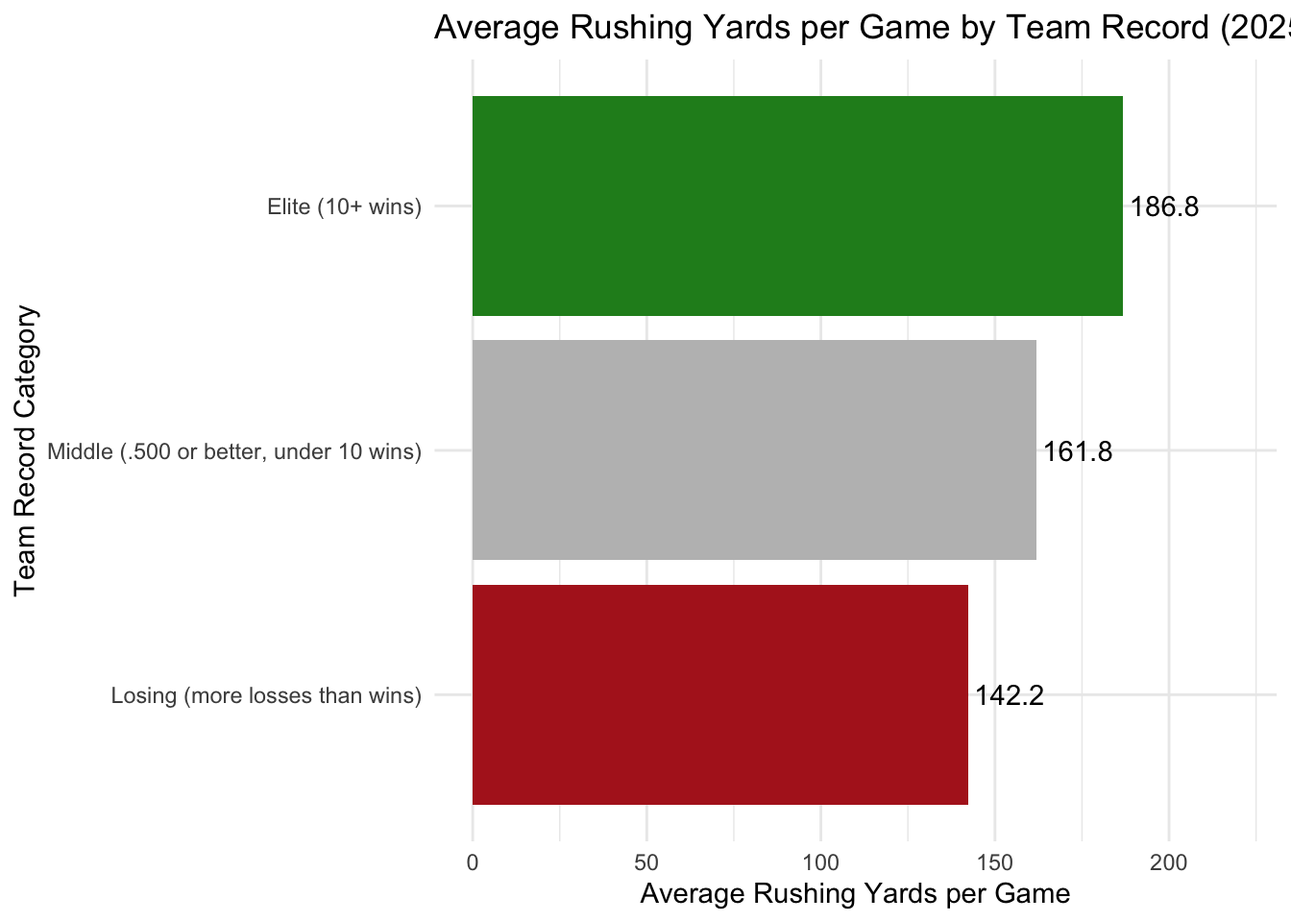
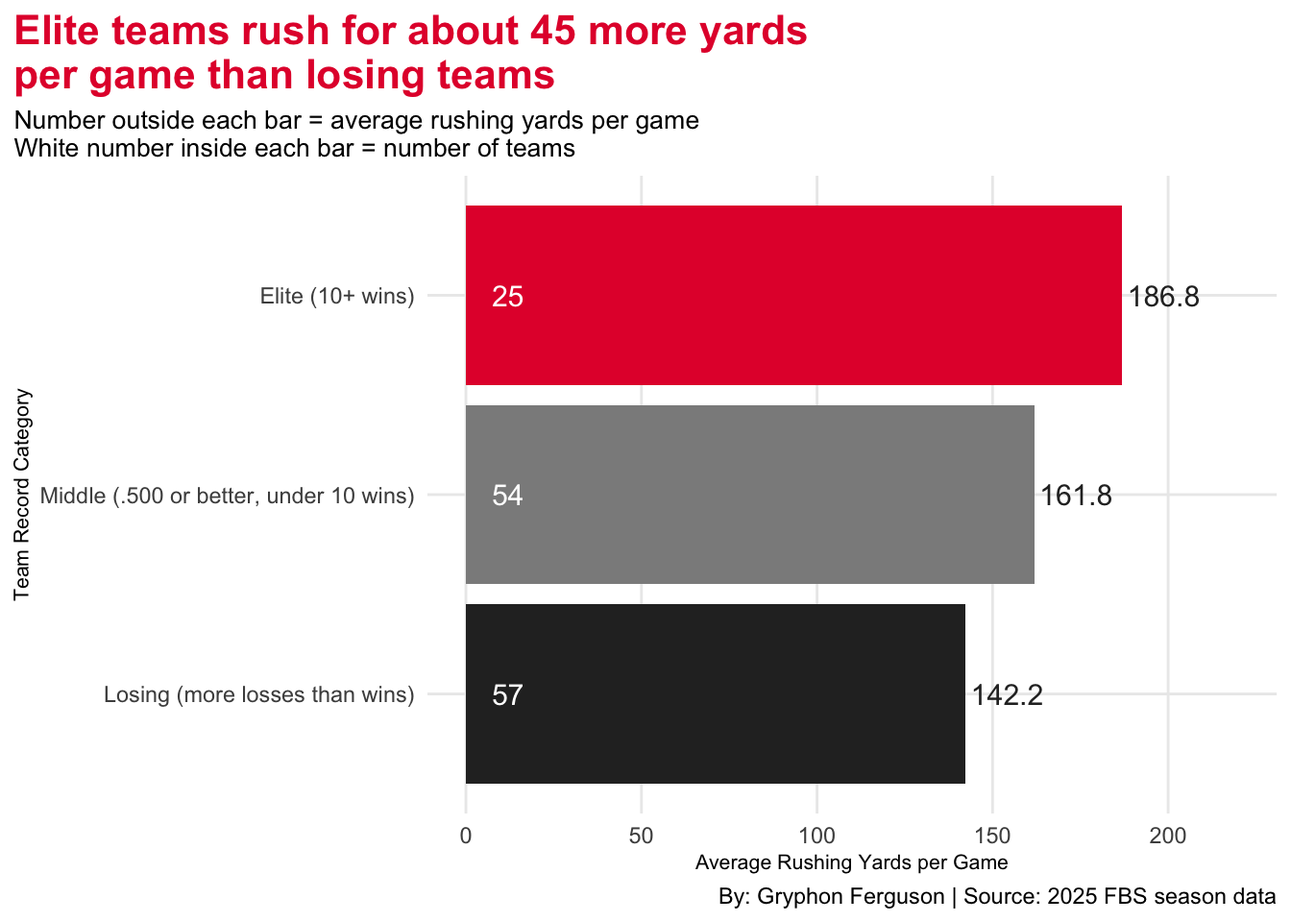
yeo

diff --git a/posts/fbs-rushing-yards-elite/fbs-rushing-yards-elite.html b/posts/fbs-rushing-yards-elite/fbs-rushing-yards-elite.html
@@ -354,17 +354,72 @@ pre > code.sourceCode > span > a:first-child::before { text-decoration: underlin
 <details class="code-fold">
 <summary>Code</summary>
 <div class="code-copy-outer-scaffold"><div class="sourceCode cell-code" id="cb1"><pre class="sourceCode r code-with-copy"><code class="sourceCode r"><span id="cb1-1"><a href="#cb1-1" aria-hidden="true" tabindex="-1"></a><span class="fu">ggplot</span>() <span class="sc">+</span></span>
-<span id="cb1-2"><a href="#cb1-2" aria-hidden="true" tabindex="-1"></a>  <span class="fu">geom_point</span>(<span class="at">data =</span> fbs, <span class="fu">aes</span>(<span class="at">x =</span> rush_ypg, <span class="at">y =</span> wins), <span class="at">color =</span> <span class="st">"steelblue"</span>, <span class="at">alpha =</span> .<span class="dv">6</span>) <span class="sc">+</span></span>
-<span id="cb1-3"><a href="#cb1-3" aria-hidden="true" tabindex="-1"></a>  <span class="fu">geom_smooth</span>(<span class="at">data =</span> fbs, <span class="fu">aes</span>(<span class="at">x =</span> rush_ypg, <span class="at">y =</span> wins), <span class="at">method =</span> <span class="st">"lm"</span>, <span class="at">color =</span> <span class="st">"firebrick"</span>) <span class="sc">+</span></span>
-<span id="cb1-4"><a href="#cb1-4" aria-hidden="true" tabindex="-1"></a>  <span class="fu">geom_point</span>(<span class="at">data =</span> standouts, <span class="fu">aes</span>(<span class="at">x =</span> rush_ypg, <span class="at">y =</span> wins), <span class="at">color =</span> <span class="st">"navy"</span>, <span class="at">size =</span> <span class="dv">3</span>) <span class="sc">+</span></span>
+<span id="cb1-2"><a href="#cb1-2" aria-hidden="true" tabindex="-1"></a>  <span class="fu">geom_point</span>(<span class="at">data =</span> fbs, <span class="fu">aes</span>(<span class="at">x =</span> rush_ypg, <span class="at">y =</span> wins), <span class="at">color =</span> <span class="st">"#B8AE9C"</span>) <span class="sc">+</span></span>
+<span id="cb1-3"><a href="#cb1-3" aria-hidden="true" tabindex="-1"></a>  <span class="fu">geom_smooth</span>(<span class="at">data =</span> fbs, <span class="fu">aes</span>(<span class="at">x =</span> rush_ypg, <span class="at">y =</span> wins), <span class="at">method =</span> <span class="st">"lm"</span>, <span class="at">color =</span> <span class="st">"#2B2B2B"</span>) <span class="sc">+</span></span>
+<span id="cb1-4"><a href="#cb1-4" aria-hidden="true" tabindex="-1"></a>  <span class="fu">geom_point</span>(<span class="at">data =</span> standouts, <span class="fu">aes</span>(<span class="at">x =</span> rush_ypg, <span class="at">y =</span> wins), <span class="at">color =</span> <span class="st">"#E41C38"</span>, <span class="at">size =</span> <span class="fl">2.5</span>) <span class="sc">+</span></span>
 <span id="cb1-5"><a href="#cb1-5" aria-hidden="true" tabindex="-1"></a>  <span class="fu">geom_text_repel</span>(<span class="at">data =</span> standouts, <span class="fu">aes</span>(<span class="at">x =</span> rush_ypg, <span class="at">y =</span> wins, <span class="at">label =</span> team)) <span class="sc">+</span></span>
-<span id="cb1-6"><a href="#cb1-6" aria-hidden="true" tabindex="-1"></a>  <span class="fu">geom_text</span>(<span class="fu">aes</span>(<span class="at">x =</span> <span class="dv">240</span>, <span class="at">y =</span> <span class="dv">1</span>, <span class="at">label =</span> <span class="st">"Correlation (r) = 0.45"</span>)) <span class="sc">+</span></span>
-<span id="cb1-7"><a href="#cb1-7" aria-hidden="true" tabindex="-1"></a>  <span class="fu">labs</span>(</span>
-<span id="cb1-8"><a href="#cb1-8" aria-hidden="true" tabindex="-1"></a>    <span class="at">title =</span> <span class="st">"Rushing Yards per Game vs. Wins (2025 FBS Season)"</span>,</span>
-<span id="cb1-9"><a href="#cb1-9" aria-hidden="true" tabindex="-1"></a>    <span class="at">x =</span> <span class="st">"Rushing Yards per Game"</span>,</span>
-<span id="cb1-10"><a href="#cb1-10" aria-hidden="true" tabindex="-1"></a>    <span class="at">y =</span> <span class="st">"Wins"</span></span>
-<span id="cb1-11"><a href="#cb1-11" aria-hidden="true" tabindex="-1"></a>  ) <span class="sc">+</span></span>
-<span id="cb1-12"><a href="#cb1-12" aria-hidden="true" tabindex="-1"></a>  <span class="fu">theme_minimal</span>()</span></code></pre></div><button title="Copy to Clipboard" class="code-copy-button"><i class="bi"></i></button></div>
+<span id="cb1-6"><a href="#cb1-6" aria-hidden="true" tabindex="-1"></a>  <span class="fu">geom_hline</span>(<span class="at">yintercept =</span> <span class="fu">mean</span>(fbs<span class="sc">$</span>wins), <span class="at">color =</span> <span class="st">"#8C8C8C"</span>) <span class="sc">+</span></span>
+<span id="cb1-7"><a href="#cb1-7" aria-hidden="true" tabindex="-1"></a>  <span class="fu">geom_vline</span>(<span class="at">xintercept =</span> <span class="fu">mean</span>(fbs<span class="sc">$</span>rush_ypg), <span class="at">color =</span> <span class="st">"#8C8C8C"</span>) <span class="sc">+</span></span>
+<span id="cb1-8"><a href="#cb1-8" aria-hidden="true" tabindex="-1"></a>  <span class="fu">scale_x_continuous</span>(<span class="at">limits =</span> <span class="fu">c</span>(<span class="dv">70</span>, <span class="dv">310</span>)) <span class="sc">+</span></span>
+<span id="cb1-9"><a href="#cb1-9" aria-hidden="true" tabindex="-1"></a>  <span class="fu">scale_y_continuous</span>(<span class="at">limits =</span> <span class="fu">c</span>(<span class="sc">-</span><span class="dv">2</span>, <span class="dv">19</span>)) <span class="sc">+</span></span>
+<span id="cb1-10"><a href="#cb1-10" aria-hidden="true" tabindex="-1"></a>  <span class="fu">geom_text</span>(</span>
+<span id="cb1-11"><a href="#cb1-11" aria-hidden="true" tabindex="-1"></a>    <span class="fu">aes</span>(<span class="at">x =</span> <span class="dv">303</span>, <span class="at">y =</span> <span class="fl">7.8</span>),</span>
+<span id="cb1-12"><a href="#cb1-12" aria-hidden="true" tabindex="-1"></a>    <span class="at">label =</span> <span class="st">"Avg. wins"</span>,</span>
+<span id="cb1-13"><a href="#cb1-13" aria-hidden="true" tabindex="-1"></a>    <span class="at">size =</span> <span class="fl">2.5</span>,</span>
+<span id="cb1-14"><a href="#cb1-14" aria-hidden="true" tabindex="-1"></a>    <span class="at">color =</span> <span class="st">"#8C8C8C"</span></span>
+<span id="cb1-15"><a href="#cb1-15" aria-hidden="true" tabindex="-1"></a>  ) <span class="sc">+</span></span>
+<span id="cb1-16"><a href="#cb1-16" aria-hidden="true" tabindex="-1"></a>  <span class="fu">geom_text</span>(</span>
+<span id="cb1-17"><a href="#cb1-17" aria-hidden="true" tabindex="-1"></a>    <span class="fu">aes</span>(<span class="at">x =</span> <span class="dv">180</span>, <span class="at">y =</span> <span class="dv">18</span>),</span>
+<span id="cb1-18"><a href="#cb1-18" aria-hidden="true" tabindex="-1"></a>    <span class="at">label =</span> <span class="st">"Avg. rushing yards"</span>,</span>
+<span id="cb1-19"><a href="#cb1-19" aria-hidden="true" tabindex="-1"></a>    <span class="at">size =</span> <span class="fl">2.5</span>,</span>
+<span id="cb1-20"><a href="#cb1-20" aria-hidden="true" tabindex="-1"></a>    <span class="at">color =</span> <span class="st">"#8C8C8C"</span></span>
+<span id="cb1-21"><a href="#cb1-21" aria-hidden="true" tabindex="-1"></a>  ) <span class="sc">+</span></span>
+<span id="cb1-22"><a href="#cb1-22" aria-hidden="true" tabindex="-1"></a>  <span class="fu">geom_text</span>(</span>
+<span id="cb1-23"><a href="#cb1-23" aria-hidden="true" tabindex="-1"></a>    <span class="fu">aes</span>(<span class="at">x =</span> <span class="dv">105</span>, <span class="at">y =</span> <span class="dv">18</span>),</span>
+<span id="cb1-24"><a href="#cb1-24" aria-hidden="true" tabindex="-1"></a>    <span class="at">label =</span> <span class="st">"Winning without the run"</span>,</span>
+<span id="cb1-25"><a href="#cb1-25" aria-hidden="true" tabindex="-1"></a>    <span class="at">size =</span> <span class="dv">3</span>,</span>
+<span id="cb1-26"><a href="#cb1-26" aria-hidden="true" tabindex="-1"></a>    <span class="at">color =</span> <span class="st">"#2B2B2B"</span></span>
+<span id="cb1-27"><a href="#cb1-27" aria-hidden="true" tabindex="-1"></a>  ) <span class="sc">+</span></span>
+<span id="cb1-28"><a href="#cb1-28" aria-hidden="true" tabindex="-1"></a>  <span class="fu">geom_text</span>(</span>
+<span id="cb1-29"><a href="#cb1-29" aria-hidden="true" tabindex="-1"></a>    <span class="fu">aes</span>(<span class="at">x =</span> <span class="dv">245</span>, <span class="at">y =</span> <span class="dv">18</span>),</span>
+<span id="cb1-30"><a href="#cb1-30" aria-hidden="true" tabindex="-1"></a>    <span class="at">label =</span> <span class="st">"Running and winning"</span>,</span>
+<span id="cb1-31"><a href="#cb1-31" aria-hidden="true" tabindex="-1"></a>    <span class="at">size =</span> <span class="dv">3</span>,</span>
+<span id="cb1-32"><a href="#cb1-32" aria-hidden="true" tabindex="-1"></a>    <span class="at">color =</span> <span class="st">"#E41C38"</span>,</span>
+<span id="cb1-33"><a href="#cb1-33" aria-hidden="true" tabindex="-1"></a>    <span class="at">fontface =</span> <span class="st">"bold"</span></span>
+<span id="cb1-34"><a href="#cb1-34" aria-hidden="true" tabindex="-1"></a>  ) <span class="sc">+</span></span>
+<span id="cb1-35"><a href="#cb1-35" aria-hidden="true" tabindex="-1"></a>  <span class="fu">geom_text</span>(</span>
+<span id="cb1-36"><a href="#cb1-36" aria-hidden="true" tabindex="-1"></a>    <span class="fu">aes</span>(<span class="at">x =</span> <span class="dv">105</span>, <span class="at">y =</span> <span class="sc">-</span><span class="fl">1.5</span>),</span>
+<span id="cb1-37"><a href="#cb1-37" aria-hidden="true" tabindex="-1"></a>    <span class="at">label =</span> <span class="st">"Neither running nor winning"</span>,</span>
+<span id="cb1-38"><a href="#cb1-38" aria-hidden="true" tabindex="-1"></a>    <span class="at">size =</span> <span class="dv">3</span>,</span>
+<span id="cb1-39"><a href="#cb1-39" aria-hidden="true" tabindex="-1"></a>    <span class="at">color =</span> <span class="st">"#2B2B2B"</span></span>
+<span id="cb1-40"><a href="#cb1-40" aria-hidden="true" tabindex="-1"></a>  ) <span class="sc">+</span></span>
+<span id="cb1-41"><a href="#cb1-41" aria-hidden="true" tabindex="-1"></a>  <span class="fu">geom_text</span>(</span>
+<span id="cb1-42"><a href="#cb1-42" aria-hidden="true" tabindex="-1"></a>    <span class="fu">aes</span>(<span class="at">x =</span> <span class="dv">245</span>, <span class="at">y =</span> <span class="sc">-</span><span class="fl">1.5</span>),</span>
+<span id="cb1-43"><a href="#cb1-43" aria-hidden="true" tabindex="-1"></a>    <span class="at">label =</span> <span class="st">"Running but still losing"</span>,</span>
+<span id="cb1-44"><a href="#cb1-44" aria-hidden="true" tabindex="-1"></a>    <span class="at">size =</span> <span class="dv">3</span>,</span>
+<span id="cb1-45"><a href="#cb1-45" aria-hidden="true" tabindex="-1"></a>    <span class="at">color =</span> <span class="st">"#2B2B2B"</span></span>
+<span id="cb1-46"><a href="#cb1-46" aria-hidden="true" tabindex="-1"></a>  ) <span class="sc">+</span></span>
+<span id="cb1-47"><a href="#cb1-47" aria-hidden="true" tabindex="-1"></a>  <span class="fu">geom_text</span>(</span>
+<span id="cb1-48"><a href="#cb1-48" aria-hidden="true" tabindex="-1"></a>    <span class="fu">aes</span>(<span class="at">x =</span> <span class="dv">175</span>, <span class="at">y =</span> <span class="sc">-</span><span class="fl">1.5</span>),</span>
+<span id="cb1-49"><a href="#cb1-49" aria-hidden="true" tabindex="-1"></a>    <span class="at">label =</span> <span class="st">"r = 0.45"</span>,</span>
+<span id="cb1-50"><a href="#cb1-50" aria-hidden="true" tabindex="-1"></a>    <span class="at">size =</span> <span class="fl">2.5</span>,</span>
+<span id="cb1-51"><a href="#cb1-51" aria-hidden="true" tabindex="-1"></a>    <span class="at">color =</span> <span class="st">"#8C8C8C"</span></span>
+<span id="cb1-52"><a href="#cb1-52" aria-hidden="true" tabindex="-1"></a>  ) <span class="sc">+</span></span>
+<span id="cb1-53"><a href="#cb1-53" aria-hidden="true" tabindex="-1"></a>  <span class="fu">labs</span>(</span>
+<span id="cb1-54"><a href="#cb1-54" aria-hidden="true" tabindex="-1"></a>    <span class="at">title =</span> <span class="st">"Teams that run the ball more tend to win more"</span>,</span>
+<span id="cb1-55"><a href="#cb1-55" aria-hidden="true" tabindex="-1"></a>    <span class="at">subtitle =</span> <span class="st">"Rushing yards and wins are connected, but Air Force shows it is no guarantee"</span>,</span>
+<span id="cb1-56"><a href="#cb1-56" aria-hidden="true" tabindex="-1"></a>    <span class="at">x =</span> <span class="st">"Rushing Yards per Game"</span>, <span class="at">y =</span> <span class="st">"Wins"</span>,</span>
+<span id="cb1-57"><a href="#cb1-57" aria-hidden="true" tabindex="-1"></a>    <span class="at">caption =</span> <span class="st">"By: Gryphon Ferguson | Source: 2025 FBS season data"</span></span>
+<span id="cb1-58"><a href="#cb1-58" aria-hidden="true" tabindex="-1"></a>  ) <span class="sc">+</span></span>
+<span id="cb1-59"><a href="#cb1-59" aria-hidden="true" tabindex="-1"></a>  <span class="fu">theme_minimal</span>() <span class="sc">+</span></span>
+<span id="cb1-60"><a href="#cb1-60" aria-hidden="true" tabindex="-1"></a>  <span class="fu">theme</span>(</span>
+<span id="cb1-61"><a href="#cb1-61" aria-hidden="true" tabindex="-1"></a>    <span class="at">plot.title =</span> <span class="fu">element_text</span>(<span class="at">size =</span> <span class="dv">16</span>, <span class="at">face =</span> <span class="st">"bold"</span>, <span class="at">color =</span> <span class="st">"#E41C38"</span>),</span>
+<span id="cb1-62"><a href="#cb1-62" aria-hidden="true" tabindex="-1"></a>    <span class="at">plot.subtitle =</span> <span class="fu">element_text</span>(<span class="at">size =</span> <span class="dv">10</span>),</span>
+<span id="cb1-63"><a href="#cb1-63" aria-hidden="true" tabindex="-1"></a>    <span class="at">axis.title =</span> <span class="fu">element_text</span>(<span class="at">size =</span> <span class="dv">8</span>),</span>
+<span id="cb1-64"><a href="#cb1-64" aria-hidden="true" tabindex="-1"></a>    <span class="at">plot.background =</span> <span class="fu">element_rect</span>(<span class="at">fill =</span> <span class="st">"#FDF2D0"</span>, <span class="at">color =</span> <span class="cn">NA</span>),</span>
+<span id="cb1-65"><a href="#cb1-65" aria-hidden="true" tabindex="-1"></a>    <span class="at">panel.grid.major =</span> <span class="fu">element_line</span>(<span class="at">color =</span> <span class="st">"#EADFC0"</span>),</span>
+<span id="cb1-66"><a href="#cb1-66" aria-hidden="true" tabindex="-1"></a>    <span class="at">panel.grid.minor =</span> <span class="fu">element_blank</span>()</span>
+<span id="cb1-67"><a href="#cb1-67" aria-hidden="true" tabindex="-1"></a>  )</span></code></pre></div><button title="Copy to Clipboard" class="code-copy-button"><i class="bi"></i></button></div>
 </details>
 <div class="cell-output-display">
 <div>
@@ -383,19 +438,33 @@ pre > code.sourceCode > span > a:first-child::before { text-decoration: underlin
 <span id="cb2-4"><a href="#cb2-4" aria-hidden="true" tabindex="-1"></a>               <span class="at">weight =</span> avg_rush_ypg, <span class="at">fill =</span> record_group)) <span class="sc">+</span></span>
 <span id="cb2-5"><a href="#cb2-5" aria-hidden="true" tabindex="-1"></a>  <span class="fu">geom_text</span>(<span class="at">data =</span> record_avg,</span>
 <span id="cb2-6"><a href="#cb2-6" aria-hidden="true" tabindex="-1"></a>            <span class="fu">aes</span>(<span class="at">x =</span> <span class="fu">reorder</span>(record_group, avg_rush_ypg),</span>
-<span id="cb2-7"><a href="#cb2-7" aria-hidden="true" tabindex="-1"></a>                <span class="at">y =</span> avg_rush_ypg <span class="sc">+</span> <span class="dv">12</span>, <span class="at">label =</span> <span class="fu">round</span>(avg_rush_ypg, <span class="dv">1</span>))) <span class="sc">+</span></span>
-<span id="cb2-8"><a href="#cb2-8" aria-hidden="true" tabindex="-1"></a>  <span class="fu">coord_flip</span>() <span class="sc">+</span></span>
-<span id="cb2-9"><a href="#cb2-9" aria-hidden="true" tabindex="-1"></a>  <span class="fu">scale_y_continuous</span>(<span class="at">limits =</span> <span class="fu">c</span>(<span class="dv">0</span>, <span class="dv">220</span>)) <span class="sc">+</span></span>
-<span id="cb2-10"><a href="#cb2-10" aria-hidden="true" tabindex="-1"></a>  <span class="fu">scale_fill_manual</span>(<span class="at">values =</span> <span class="fu">c</span>(<span class="st">"Elite (10+ wins)"</span> <span class="ot">=</span> <span class="st">"forestgreen"</span>,</span>
-<span id="cb2-11"><a href="#cb2-11" aria-hidden="true" tabindex="-1"></a>                               <span class="st">"Middle (.500 or better, under 10 wins)"</span> <span class="ot">=</span> <span class="st">"gray"</span>,</span>
-<span id="cb2-12"><a href="#cb2-12" aria-hidden="true" tabindex="-1"></a>                               <span class="st">"Losing (more losses than wins)"</span> <span class="ot">=</span> <span class="st">"firebrick"</span>)) <span class="sc">+</span></span>
-<span id="cb2-13"><a href="#cb2-13" aria-hidden="true" tabindex="-1"></a>  <span class="fu">labs</span>(</span>
-<span id="cb2-14"><a href="#cb2-14" aria-hidden="true" tabindex="-1"></a>    <span class="at">title =</span> <span class="st">"Average Rushing Yards per Game by Team Record (2025 FBS)"</span>,</span>
-<span id="cb2-15"><a href="#cb2-15" aria-hidden="true" tabindex="-1"></a>    <span class="at">x =</span> <span class="st">"Team Record Category"</span>,</span>
-<span id="cb2-16"><a href="#cb2-16" aria-hidden="true" tabindex="-1"></a>    <span class="at">y =</span> <span class="st">"Average Rushing Yards per Game"</span></span>
-<span id="cb2-17"><a href="#cb2-17" aria-hidden="true" tabindex="-1"></a>  ) <span class="sc">+</span></span>
-<span id="cb2-18"><a href="#cb2-18" aria-hidden="true" tabindex="-1"></a>  <span class="fu">theme_minimal</span>() <span class="sc">+</span></span>
-<span id="cb2-19"><a href="#cb2-19" aria-hidden="true" tabindex="-1"></a>  <span class="fu">theme</span>(<span class="at">legend.position =</span> <span class="st">"none"</span>)</span></code></pre></div><button title="Copy to Clipboard" class="code-copy-button"><i class="bi"></i></button></div>
+<span id="cb2-7"><a href="#cb2-7" aria-hidden="true" tabindex="-1"></a>                <span class="at">y =</span> avg_rush_ypg <span class="sc">+</span> <span class="dv">12</span>, <span class="at">label =</span> <span class="fu">round</span>(avg_rush_ypg, <span class="dv">1</span>)),</span>
+<span id="cb2-8"><a href="#cb2-8" aria-hidden="true" tabindex="-1"></a>            <span class="at">size =</span> <span class="dv">4</span>, <span class="at">color =</span> <span class="st">"#2B2B2B"</span>) <span class="sc">+</span></span>
+<span id="cb2-9"><a href="#cb2-9" aria-hidden="true" tabindex="-1"></a>  <span class="fu">geom_text</span>(<span class="at">data =</span> record_avg,</span>
+<span id="cb2-10"><a href="#cb2-10" aria-hidden="true" tabindex="-1"></a>            <span class="fu">aes</span>(<span class="at">x =</span> <span class="fu">reorder</span>(record_group, avg_rush_ypg),</span>
+<span id="cb2-11"><a href="#cb2-11" aria-hidden="true" tabindex="-1"></a>                <span class="at">y =</span> <span class="dv">12</span>, <span class="at">label =</span> teams),</span>
+<span id="cb2-12"><a href="#cb2-12" aria-hidden="true" tabindex="-1"></a>            <span class="at">color =</span> <span class="st">"white"</span>, <span class="at">size =</span> <span class="dv">4</span>) <span class="sc">+</span></span>
+<span id="cb2-13"><a href="#cb2-13" aria-hidden="true" tabindex="-1"></a>  <span class="fu">coord_flip</span>() <span class="sc">+</span></span>
+<span id="cb2-14"><a href="#cb2-14" aria-hidden="true" tabindex="-1"></a>  <span class="fu">scale_y_continuous</span>(<span class="at">limits =</span> <span class="fu">c</span>(<span class="dv">0</span>, <span class="dv">220</span>)) <span class="sc">+</span></span>
+<span id="cb2-15"><a href="#cb2-15" aria-hidden="true" tabindex="-1"></a>  <span class="fu">scale_fill_manual</span>(<span class="at">values =</span> <span class="fu">c</span>(<span class="st">"Elite (10+ wins)"</span> <span class="ot">=</span> <span class="st">"#E41C38"</span>,</span>
+<span id="cb2-16"><a href="#cb2-16" aria-hidden="true" tabindex="-1"></a>                               <span class="st">"Middle (.500 or better, under 10 wins)"</span> <span class="ot">=</span> <span class="st">"#8C8C8C"</span>,</span>
+<span id="cb2-17"><a href="#cb2-17" aria-hidden="true" tabindex="-1"></a>                               <span class="st">"Losing (more losses than wins)"</span> <span class="ot">=</span> <span class="st">"#2B2B2B"</span>)) <span class="sc">+</span></span>
+<span id="cb2-18"><a href="#cb2-18" aria-hidden="true" tabindex="-1"></a>  <span class="fu">labs</span>(</span>
+<span id="cb2-19"><a href="#cb2-19" aria-hidden="true" tabindex="-1"></a>    <span class="at">title =</span> <span class="st">"Elite teams rush for about 45 more yards</span><span class="sc">\n</span><span class="st">per game than losing teams"</span>,</span>
+<span id="cb2-20"><a href="#cb2-20" aria-hidden="true" tabindex="-1"></a>    <span class="at">subtitle =</span> <span class="st">"Number outside each bar = average rushing yards per game</span><span class="sc">\n</span><span class="st">White number inside each bar = number of teams"</span>,</span>
+<span id="cb2-21"><a href="#cb2-21" aria-hidden="true" tabindex="-1"></a>    <span class="at">x =</span> <span class="st">"Team Record Category"</span>,</span>
+<span id="cb2-22"><a href="#cb2-22" aria-hidden="true" tabindex="-1"></a>    <span class="at">y =</span> <span class="st">"Average Rushing Yards per Game"</span>,</span>
+<span id="cb2-23"><a href="#cb2-23" aria-hidden="true" tabindex="-1"></a>    <span class="at">caption =</span> <span class="st">"By: Gryphon Ferguson | Source: 2025 FBS season data"</span></span>
+<span id="cb2-24"><a href="#cb2-24" aria-hidden="true" tabindex="-1"></a>  ) <span class="sc">+</span></span>
+<span id="cb2-25"><a href="#cb2-25" aria-hidden="true" tabindex="-1"></a>  <span class="fu">theme_minimal</span>() <span class="sc">+</span></span>
+<span id="cb2-26"><a href="#cb2-26" aria-hidden="true" tabindex="-1"></a>  <span class="fu">theme</span>(</span>
+<span id="cb2-27"><a href="#cb2-27" aria-hidden="true" tabindex="-1"></a>    <span class="at">legend.position =</span> <span class="st">"none"</span>,</span>
+<span id="cb2-28"><a href="#cb2-28" aria-hidden="true" tabindex="-1"></a>    <span class="at">plot.title.position =</span> <span class="st">"plot"</span>,</span>
+<span id="cb2-29"><a href="#cb2-29" aria-hidden="true" tabindex="-1"></a>    <span class="at">plot.title =</span> <span class="fu">element_text</span>(<span class="at">size =</span> <span class="dv">16</span>, <span class="at">face =</span> <span class="st">"bold"</span>, <span class="at">color =</span> <span class="st">"#E41C38"</span>),</span>
+<span id="cb2-30"><a href="#cb2-30" aria-hidden="true" tabindex="-1"></a>    <span class="at">plot.subtitle =</span> <span class="fu">element_text</span>(<span class="at">size =</span> <span class="dv">10</span>),</span>
+<span id="cb2-31"><a href="#cb2-31" aria-hidden="true" tabindex="-1"></a>    <span class="at">axis.title =</span> <span class="fu">element_text</span>(<span class="at">size =</span> <span class="dv">8</span>),</span>
+<span id="cb2-32"><a href="#cb2-32" aria-hidden="true" tabindex="-1"></a>    <span class="at">panel.grid.minor =</span> <span class="fu">element_blank</span>()</span>
+<span id="cb2-33"><a href="#cb2-33" aria-hidden="true" tabindex="-1"></a>  )</span></code></pre></div><button title="Copy to Clipboard" class="code-copy-button"><i class="bi"></i></button></div>
 </details>
 <div class="cell-output-display">
 <div>
@@ -410,21 +479,29 @@ pre > code.sourceCode > span > a:first-child::before { text-decoration: underlin
 <summary>Code</summary>
 <div class="code-copy-outer-scaffold"><div class="sourceCode cell-code" id="cb3"><pre class="sourceCode r code-with-copy"><code class="sourceCode r"><span id="cb3-1"><a href="#cb3-1" aria-hidden="true" tabindex="-1"></a><span class="fu">ggplot</span>() <span class="sc">+</span></span>
 <span id="cb3-2"><a href="#cb3-2" aria-hidden="true" tabindex="-1"></a>  <span class="fu">geom_point</span>(<span class="at">data =</span> middle, <span class="fu">aes</span>(<span class="at">x =</span> rush_ypg, <span class="at">y =</span> def_ypg_allowed, <span class="at">size =</span> wins),</span>
-<span id="cb3-3"><a href="#cb3-3" aria-hidden="true" tabindex="-1"></a>             <span class="at">color =</span> <span class="st">"gray"</span>, <span class="at">alpha =</span> .<span class="dv">7</span>) <span class="sc">+</span></span>
+<span id="cb3-3"><a href="#cb3-3" aria-hidden="true" tabindex="-1"></a>             <span class="at">color =</span> <span class="st">"#8C8C8C"</span>, <span class="at">alpha =</span> .<span class="dv">7</span>) <span class="sc">+</span></span>
 <span id="cb3-4"><a href="#cb3-4" aria-hidden="true" tabindex="-1"></a>  <span class="fu">geom_point</span>(<span class="at">data =</span> losing, <span class="fu">aes</span>(<span class="at">x =</span> rush_ypg, <span class="at">y =</span> def_ypg_allowed, <span class="at">size =</span> wins),</span>
-<span id="cb3-5"><a href="#cb3-5" aria-hidden="true" tabindex="-1"></a>             <span class="at">color =</span> <span class="st">"firebrick"</span>, <span class="at">alpha =</span> .<span class="dv">7</span>) <span class="sc">+</span></span>
+<span id="cb3-5"><a href="#cb3-5" aria-hidden="true" tabindex="-1"></a>             <span class="at">color =</span> <span class="st">"#2B2B2B"</span>, <span class="at">alpha =</span> .<span class="dv">7</span>) <span class="sc">+</span></span>
 <span id="cb3-6"><a href="#cb3-6" aria-hidden="true" tabindex="-1"></a>  <span class="fu">geom_point</span>(<span class="at">data =</span> elite, <span class="fu">aes</span>(<span class="at">x =</span> rush_ypg, <span class="at">y =</span> def_ypg_allowed, <span class="at">size =</span> wins),</span>
-<span id="cb3-7"><a href="#cb3-7" aria-hidden="true" tabindex="-1"></a>             <span class="at">color =</span> <span class="st">"forestgreen"</span>, <span class="at">alpha =</span> .<span class="dv">7</span>) <span class="sc">+</span></span>
+<span id="cb3-7"><a href="#cb3-7" aria-hidden="true" tabindex="-1"></a>             <span class="at">color =</span> <span class="st">"#E41C38"</span>, <span class="at">alpha =</span> .<span class="dv">7</span>) <span class="sc">+</span></span>
 <span id="cb3-8"><a href="#cb3-8" aria-hidden="true" tabindex="-1"></a>  <span class="fu">geom_text_repel</span>(<span class="at">data =</span> standouts, <span class="fu">aes</span>(<span class="at">x =</span> rush_ypg, <span class="at">y =</span> def_ypg_allowed, <span class="at">label =</span> team)) <span class="sc">+</span></span>
 <span id="cb3-9"><a href="#cb3-9" aria-hidden="true" tabindex="-1"></a>  <span class="fu">scale_size</span>(<span class="at">range =</span> <span class="fu">c</span>(<span class="dv">3</span>, <span class="dv">8</span>)) <span class="sc">+</span></span>
 <span id="cb3-10"><a href="#cb3-10" aria-hidden="true" tabindex="-1"></a>  <span class="fu">labs</span>(</span>
-<span id="cb3-11"><a href="#cb3-11" aria-hidden="true" tabindex="-1"></a>    <span class="at">title =</span> <span class="st">"Rushing Offense vs. Defense (2025 FBS Season)"</span>,</span>
-<span id="cb3-12"><a href="#cb3-12" aria-hidden="true" tabindex="-1"></a>    <span class="at">subtitle =</span> <span class="st">"Bubble size = total wins. Green = elite (10+ wins), gray = middle, red = losing record"</span>,</span>
+<span id="cb3-11"><a href="#cb3-11" aria-hidden="true" tabindex="-1"></a>    <span class="at">title =</span> <span class="st">"Powerful rushing offenses cluster with high win totals"</span>,</span>
+<span id="cb3-12"><a href="#cb3-12" aria-hidden="true" tabindex="-1"></a>    <span class="at">subtitle =</span> <span class="st">"Elite teams average 187 rushing yards per game, compared with 142 for teams with losing records</span><span class="sc">\n</span><span class="st">Bubble size = total wins</span><span class="sc">\n</span><span class="st">Scarlet = elite (10+ wins), gray = middle, black = losing record"</span>,</span>
 <span id="cb3-13"><a href="#cb3-13" aria-hidden="true" tabindex="-1"></a>    <span class="at">x =</span> <span class="st">"Rushing Yards per Game"</span>,</span>
-<span id="cb3-14"><a href="#cb3-14" aria-hidden="true" tabindex="-1"></a>    <span class="at">y =</span> <span class="st">"Total Yards Allowed per Game"</span></span>
-<span id="cb3-15"><a href="#cb3-15" aria-hidden="true" tabindex="-1"></a>  ) <span class="sc">+</span></span>
-<span id="cb3-16"><a href="#cb3-16" aria-hidden="true" tabindex="-1"></a>  <span class="fu">theme_minimal</span>() <span class="sc">+</span></span>
-<span id="cb3-17"><a href="#cb3-17" aria-hidden="true" tabindex="-1"></a>  <span class="fu">theme</span>(<span class="at">legend.position =</span> <span class="st">"none"</span>)</span></code></pre></div><button title="Copy to Clipboard" class="code-copy-button"><i class="bi"></i></button></div>
+<span id="cb3-14"><a href="#cb3-14" aria-hidden="true" tabindex="-1"></a>    <span class="at">y =</span> <span class="st">"Total Yards Allowed per Game (lower = better defense)"</span>,</span>
+<span id="cb3-15"><a href="#cb3-15" aria-hidden="true" tabindex="-1"></a>    <span class="at">caption =</span> <span class="st">"By: Gryphon Ferguson | Source: 2025 FBS season data"</span></span>
+<span id="cb3-16"><a href="#cb3-16" aria-hidden="true" tabindex="-1"></a>  ) <span class="sc">+</span></span>
+<span id="cb3-17"><a href="#cb3-17" aria-hidden="true" tabindex="-1"></a>  <span class="fu">theme_minimal</span>() <span class="sc">+</span></span>
+<span id="cb3-18"><a href="#cb3-18" aria-hidden="true" tabindex="-1"></a>  <span class="fu">theme</span>(</span>
+<span id="cb3-19"><a href="#cb3-19" aria-hidden="true" tabindex="-1"></a>    <span class="at">legend.position =</span> <span class="st">"none"</span>,</span>
+<span id="cb3-20"><a href="#cb3-20" aria-hidden="true" tabindex="-1"></a>    <span class="at">plot.title.position =</span> <span class="st">"plot"</span>,</span>
+<span id="cb3-21"><a href="#cb3-21" aria-hidden="true" tabindex="-1"></a>    <span class="at">plot.title =</span> <span class="fu">element_text</span>(<span class="at">size =</span> <span class="dv">16</span>, <span class="at">face =</span> <span class="st">"bold"</span>, <span class="at">color =</span> <span class="st">"#E41C38"</span>),</span>
+<span id="cb3-22"><a href="#cb3-22" aria-hidden="true" tabindex="-1"></a>    <span class="at">plot.subtitle =</span> <span class="fu">element_text</span>(<span class="at">size =</span> <span class="dv">10</span>),</span>
+<span id="cb3-23"><a href="#cb3-23" aria-hidden="true" tabindex="-1"></a>    <span class="at">axis.title =</span> <span class="fu">element_text</span>(<span class="at">size =</span> <span class="dv">8</span>),</span>
+<span id="cb3-24"><a href="#cb3-24" aria-hidden="true" tabindex="-1"></a>    <span class="at">panel.grid.minor =</span> <span class="fu">element_blank</span>()</span>
+<span id="cb3-25"><a href="#cb3-25" aria-hidden="true" tabindex="-1"></a>  )</span></code></pre></div><button title="Copy to Clipboard" class="code-copy-button"><i class="bi"></i></button></div>
 </details>
 <div class="cell-output-display">
 <div>

diff --git a/index.html b/index.html
@@ -368,7 +368,7 @@ window.Quarto = {
 
 <div class="quarto-listing quarto-listing-container-default" id="listing-listing">
 <div class="list quarto-listing-default">
-<div class="quarto-post image-right" data-index="0" data-listing-date-sort="1794549600000" data-listing-file-modified-sort="1794355127805" data-listing-date-modified-sort="NaN" data-listing-reading-time-sort="4" data-listing-word-count-sort="786">
+<div class="quarto-post image-right" data-index="0" data-listing-date-sort="1794549600000" data-listing-file-modified-sort="1794357494365" data-listing-date-modified-sort="NaN" data-listing-reading-time-sort="7" data-listing-word-count-sort="1380">
 <div class="thumbnail"><a href="./posts/fbs-rushing-yards-elite/fbs-rushing-yards-elite.html" class="no-external">
 
 <img loading="lazy" src="./posts/fbs-rushing-yards-elite/image.png" class="thumbnail-image">
